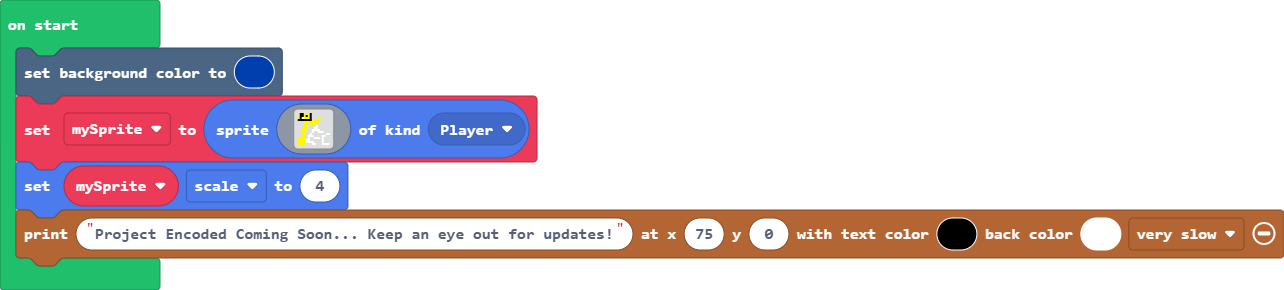
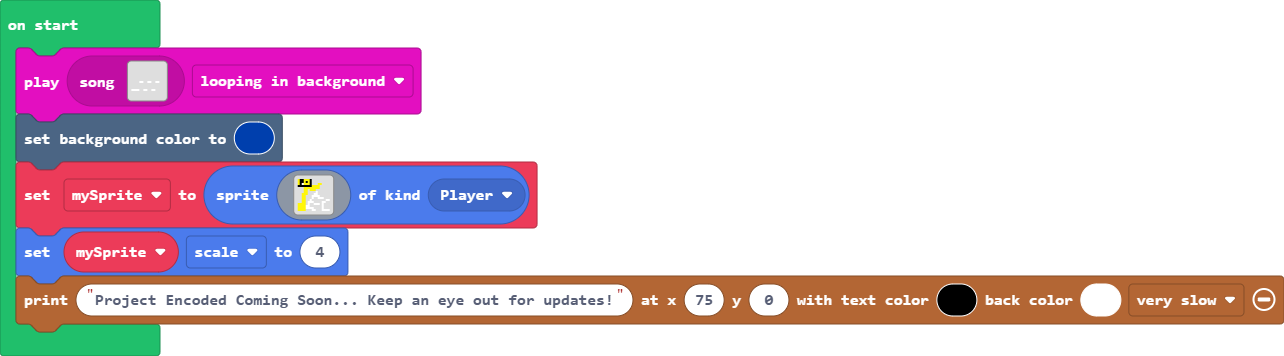
Update main.blocks, main.ts, images.g.jres, images.g.ts

Changed region(s): [[0.0, 0.0621, 1.0, 0.931]]

diff --git a/images.g.ts b/images.g.ts
@@ -35,7 +35,8 @@ f f f f f f f 5 5 5 5 . . . . .
 
     helpers._registerFactory("song", function(name: string) {
         switch(helpers.stringTrim(name)) {
-
+            case "song1":
[1 lines of base64/hex data omitted]
         }
         return null;
     })

diff --git a/main.ts b/main.ts
@@ -1,3 +1,4 @@
+music.play(music.createSong(assets.song`MenuLoop`), music.PlaybackMode.LoopingInBackground)
 scene.setBackgroundColor(8)
 let mySprite = sprites.create(assets.image`EncodedLogo`, SpriteKind.Player)
 mySprite.scale = 4
